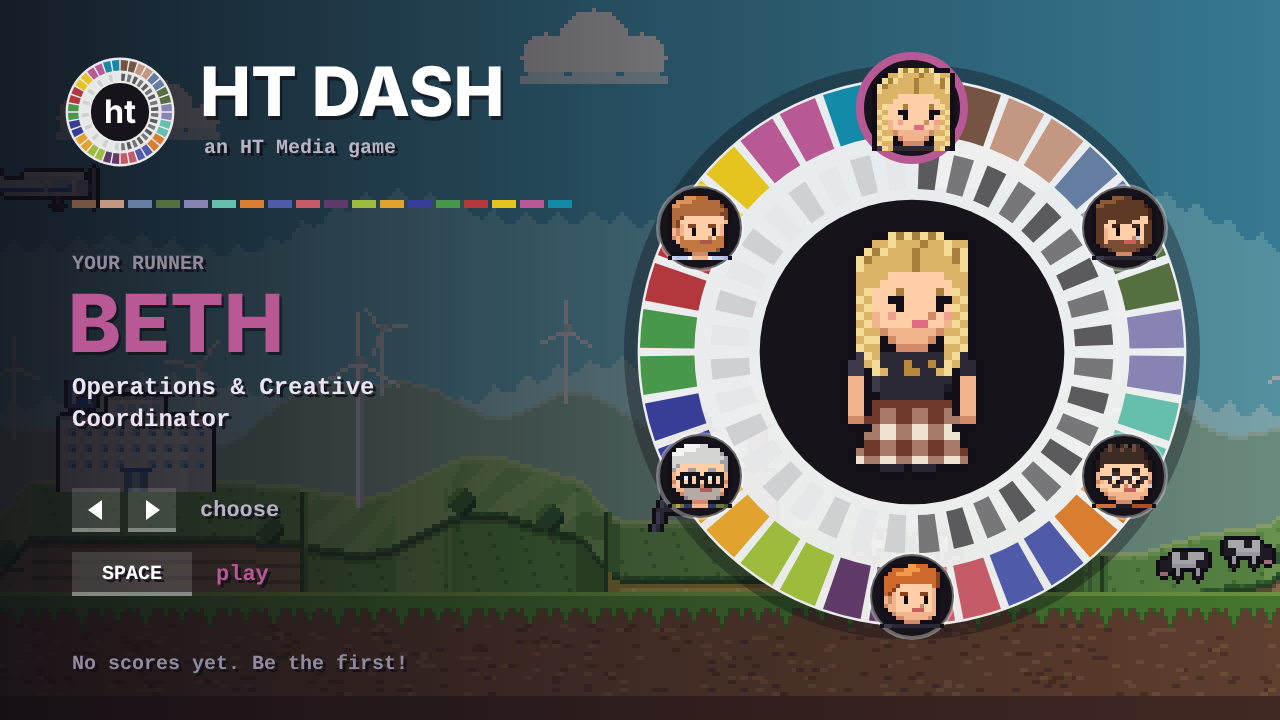
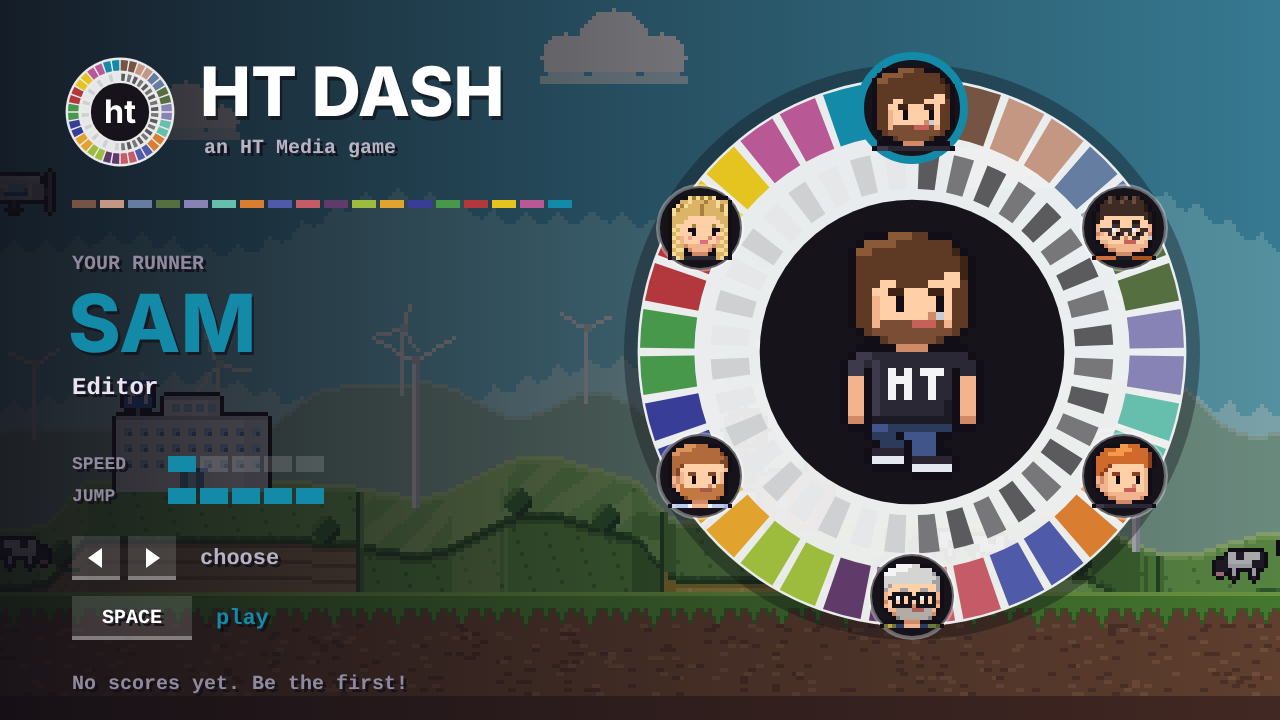
Add game stats (Speed, Jump) per runner and three lives
- Each runner has made-up Speed and Jump out of 5 (each pair adds to 6),
  shown as bars on the intro; Speed scales the world (0.88 to 1.12),
  Jump the take-off (height about 0.85 to 1.17)
- Three lives: a hit costs a heart, Dan flashes and keeps running for
  1.5 seconds; the third hit ends the run (bot runs: 46 to 60 seconds)
- README and learnings G-023, G-024; rebuilt dist file

Claude-Session: https://claude.ai/code/session_012JLRS1jhkpomJrfm7HDQX3

diff --git a/dist/HT-Dash.html b/dist/HT-Dash.html
@@ -190,14 +190,20 @@ const ASSETS = {
 // The HT team. Dan is the default runner; the arrow keys on the title screen pick someone else.
 const CHARS = [
   // each runner has their own colour from the HT logo ring
-  { id: "dan",   name: "DAN",   role: "Managing Director",                 colour: "#d97e30" },
-  { id: "dave",  name: "DAVE",  role: "Production Director",               colour: "#66bfad" },
-  { id: "mark",  name: "MARK",  role: "Creative Director",                 colour: "#9dbc3e" },
-  { id: "beth",  name: "BETH",  role: "Operations & Creative Coordinator", colour: "#b85895" },
-  { id: "sam",   name: "SAM",   role: "Editor",                            colour: "#138aa8" },
-  { id: "jonas", name: "JONAS", role: "Creative Producer",                 colour: "#e1a22e" },
+  // game stats (made up, out of 5, each pair adds to 6): speed = how fast the world moves,
+  // jump = how high they go
+  { id: "dan",   name: "DAN",   role: "Managing Director",                 colour: "#d97e30", speed: 3, jump: 3 },
+  { id: "dave",  name: "DAVE",  role: "Production Director",               colour: "#66bfad", speed: 2, jump: 4 },
+  { id: "mark",  name: "MARK",  role: "Creative Director",                 colour: "#9dbc3e", speed: 4, jump: 2 },
+  { id: "beth",  name: "BETH",  role: "Operations & Creative Coordinator", colour: "#b85895", speed: 5, jump: 1 },
+  { id: "sam",   name: "SAM",   role: "Editor",                            colour: "#138aa8", speed: 1, jump: 5 },
+  { id: "jonas", name: "JONAS", role: "Creative Producer",                 colour: "#e1a22e", speed: 3, jump: 3 },
 ];
 let sel = 0;                      // which runner is chosen
+const speedMul = () => 1 + (who().speed - 3) * 0.06;   // 0.88 to 1.12
+const jumpMul = () => 1 + (who().jump - 3) * 0.04;     // take-off speed; height changes about 0.85 to 1.17
+const LIVES = 3;                  // crashes allowed per run
+let lives = LIVES, invuln = 0;    // invuln: frames of flashing, can't-be-hit time after losing a life
 const who = () => CHARS[sel];
 const RUN_FRAMES = 6;
 for (const c of CHARS) {
@@ -339,6 +345,7 @@ function newRun() {
   runTime = 0;
   wind = [];
   bonus = 0; popups = []; portStart = null;
+  lives = LIVES; invuln = 0;
   take = nextTake();
   power = 0;
   pieFlash = 0;
@@ -347,7 +354,7 @@ function newRun() {
 
 function jump() {
   if (dan.onGround) {
-    dan.vy = power > 0 ? -7.5 : -5.3;   // pie power: twice as high
+    dan.vy = (power > 0 ? -7.5 : -5.3) * jumpMul();   // pie power: twice as high; jump stat on top
     dan.onGround = false;
   }
 }
@@ -422,7 +429,8 @@ function update() {
 
   runTime++;
   // speed: 2.6 at the start, about 7 at 50 seconds, then it keeps on climbing
-  speed = 2.6 + 4.4 * Math.pow(difficulty(), 1.3) + Math.max(0, secs() - 50) * 0.12;
+  speed = (2.6 + 4.4 * Math.pow(difficulty(), 1.3) + Math.max(0, secs() - 50) * 0.12) * speedMul();
+  if (invuln > 0) invuln--;
   distance += speed;
   score = Math.floor(distance / 10) + bonus;
   if (!portStart && secs() >= PORT_AT) startPort();
@@ -480,7 +488,7 @@ function update() {
   obstacles = obstacles.filter(o => o.x + o.w > -4);
 
   for (const o of obstacles) {
-    if (!hit(o)) continue;
+    if (o.hurt || !hit(o)) continue;
     // coming down on top of something: bounce off it and score 5 (once per obstacle)
     const feetBefore = dan.y + 29 - dan.vy;
     if (dan.vy > 0 && feetBefore <= o.y + 6) {
@@ -491,6 +499,14 @@ function update() {
         bonus += 5;
         popups.push({ x: o.x + o.w / 2, y: o.y - 4, t: 45 });
       }
+      continue;
+    }
+    if (invuln > 0) continue;                       // just lost a life: flashing, can't be hit
+    lives--;
+    o.hurt = true;                                  // run straight through the thing you hit
+    if (lives > 0) {
+      invuln = 90;                                  // 1.5 seconds to recover
+      popups.push({ x: dan.x + 16, y: dan.y - 4, t: 50, label: "-1", colour: "#ff6b6b" });
       continue;
     }
     state = "crash";
@@ -666,15 +682,25 @@ function drawRingSelect() {
   textSans(c.name, 17, 82, 20, c.colour);
   wrapLines(c.role, 24).forEach((line, i) => text(line, 18, 97 + i * 8, 6, "#e9e4f2", "left"));
 
+  // game stats as little bars in the runner's colour
+  [["SPEED", c.speed], ["JUMP", c.jump]].forEach(([label, v], row) => {
+    const y = 116 + row * 8;
+    text(label, 18, y, 4.5, "#8f8a9e", "left");
+    for (let k = 0; k < 5; k++) {
+      ctx.fillStyle = k < v ? c.colour : "rgba(255,255,255,0.15)";
+      ctx.fillRect(42 + k * 8, y - 2, 7, 4);
+    }
+  });
+
   // controls
-  keycap(18, 122, 12, "<"); keycap(32, 122, 12, ">");
-  text("choose", 50, 127.5, 5.5, "#b8b3c4", "left");
-  keycap(18, 138, 30, "SPACE");
-  text("play", 54, 143.5, 5.5, c.colour, "left");
+  keycap(18, 134, 12, "<"); keycap(32, 134, 12, ">");
+  text("choose", 50, 139.5, 5.5, "#b8b3c4", "left");
+  keycap(18, 149, 30, "SPACE");
+  text("play", 54, 154.5, 5.5, c.colour, "left");
 
   // best score, small
   const top = loadScores()[0];
-  text(top ? `BEST  ${top.name}  ${top.score}` : "No scores yet. Be the first!", 18, 166, 5, "#8f8a9e", "left");
+  text(top ? `BEST  ${top.name}  ${top.score}` : "No scores yet. Be the first!", 18, 171, 5, "#8f8a9e", "left");
 
   // the wheel
   const cx = 228, cy = 88, R = 68;
@@ -758,10 +784,18 @@ function drawWorld() {
     for (const [gx, gy] of [[-1, 0], [1, 0], [0, -1], [0, 1]]) ctx.drawImage(glow, Math.round(d.x) + gx, Math.round(d.y) + gy);
     ctx.globalAlpha = 1;
   }
-  ctx.drawImage(danImg, Math.round(d.x), Math.round(d.y));
+  if (!(state === "play" && invuln > 0 && Math.floor(t / 4) % 2)) ctx.drawImage(danImg, Math.round(d.x), Math.round(d.y));
+}
+
+// A little pixel heart for the lives counter.
+function heart(x, y, full) {
+  ctx.fillStyle = full ? "#e43b44" : "rgba(255,255,255,0.25)";
+  for (const [dx, dy, w] of [[1, 0, 2], [4, 0, 2], [0, 1, 7], [0, 2, 7], [1, 3, 5], [2, 4, 3], [3, 5, 1]]) ctx.fillRect(x + dx, y + dy, w, 1);
+  if (full) { ctx.fillStyle = "#ff9aa0"; ctx.fillRect(x + 1, y + 1, 1, 1); }
 }
 
 function drawHud() {
+  for (let i = 0; i < LIVES; i++) heart(8 + i * 10, 8, i < lives);
   if (power > 0) {
     // pie power timer, top centre: a mini HT ring whose segments switch off as it runs out
     if (power > 120 || Math.floor(t / 8) % 2) {
@@ -774,7 +808,7 @@ function drawHud() {
   if (pieFlash > 0) text("PIE POWER! SUPER JUMP!", W / 2, 50, 10, "#ffd98a");
   for (const p of popups) {                                  // "+5" floating up from a stomped obstacle
     ctx.globalAlpha = Math.min(1, p.t / 15);
-    text("+5", p.x, p.y, 9, who().colour);
+    text(p.label || "+5", p.x, p.y, 9, p.colour || who().colour);
     ctx.globalAlpha = 1;
   }
   text(`SCORE ${String(score).padStart(5, "0")}`, W - 6, 10, 8, "#fff", "right");

diff --git a/index.html b/index.html
@@ -79,14 +79,20 @@ const ASSETS = {
 // The HT team. Dan is the default runner; the arrow keys on the title screen pick someone else.
 const CHARS = [
   // each runner has their own colour from the HT logo ring
-  { id: "dan",   name: "DAN",   role: "Managing Director",                 colour: "#d97e30" },
-  { id: "dave",  name: "DAVE",  role: "Production Director",               colour: "#66bfad" },
-  { id: "mark",  name: "MARK",  role: "Creative Director",                 colour: "#9dbc3e" },
-  { id: "beth",  name: "BETH",  role: "Operations & Creative Coordinator", colour: "#b85895" },
-  { id: "sam",   name: "SAM",   role: "Editor",                            colour: "#138aa8" },
-  { id: "jonas", name: "JONAS", role: "Creative Producer",                 colour: "#e1a22e" },
+  // game stats (made up, out of 5, each pair adds to 6): speed = how fast the world moves,
+  // jump = how high they go
+  { id: "dan",   name: "DAN",   role: "Managing Director",                 colour: "#d97e30", speed: 3, jump: 3 },
+  { id: "dave",  name: "DAVE",  role: "Production Director",               colour: "#66bfad", speed: 2, jump: 4 },
+  { id: "mark",  name: "MARK",  role: "Creative Director",                 colour: "#9dbc3e", speed: 4, jump: 2 },
+  { id: "beth",  name: "BETH",  role: "Operations & Creative Coordinator", colour: "#b85895", speed: 5, jump: 1 },
+  { id: "sam",   name: "SAM",   role: "Editor",                            colour: "#138aa8", speed: 1, jump: 5 },
+  { id: "jonas", name: "JONAS", role: "Creative Producer",                 colour: "#e1a22e", speed: 3, jump: 3 },
 ];
 let sel = 0;                      // which runner is chosen
+const speedMul = () => 1 + (who().speed - 3) * 0.06;   // 0.88 to 1.12
+const jumpMul = () => 1 + (who().jump - 3) * 0.04;     // take-off speed; height changes about 0.85 to 1.17
+const LIVES = 3;                  // crashes allowed per run
+let lives = LIVES, invuln = 0;    // invuln: frames of flashing, can't-be-hit time after losing a life
 const who = () => CHARS[sel];
 const RUN_FRAMES = 6;
 for (const c of CHARS) {
@@ -228,6 +234,7 @@ function newRun() {
   runTime = 0;
   wind = [];
   bonus = 0; popups = []; portStart = null;
+  lives = LIVES; invuln = 0;
   take = nextTake();
   power = 0;
   pieFlash = 0;
@@ -236,7 +243,7 @@ function newRun() {
 
 function jump() {
   if (dan.onGround) {
-    dan.vy = power > 0 ? -7.5 : -5.3;   // pie power: twice as high
+    dan.vy = (power > 0 ? -7.5 : -5.3) * jumpMul();   // pie power: twice as high; jump stat on top
     dan.onGround = false;
   }
 }
@@ -311,7 +318,8 @@ function update() {
 
   runTime++;
   // speed: 2.6 at the start, about 7 at 50 seconds, then it keeps on climbing
-  speed = 2.6 + 4.4 * Math.pow(difficulty(), 1.3) + Math.max(0, secs() - 50) * 0.12;
+  speed = (2.6 + 4.4 * Math.pow(difficulty(), 1.3) + Math.max(0, secs() - 50) * 0.12) * speedMul();
+  if (invuln > 0) invuln--;
   distance += speed;
   score = Math.floor(distance / 10) + bonus;
   if (!portStart && secs() >= PORT_AT) startPort();
@@ -369,7 +377,7 @@ function update() {
   obstacles = obstacles.filter(o => o.x + o.w > -4);
 
   for (const o of obstacles) {
-    if (!hit(o)) continue;
+    if (o.hurt || !hit(o)) continue;
     // coming down on top of something: bounce off it and score 5 (once per obstacle)
     const feetBefore = dan.y + 29 - dan.vy;
     if (dan.vy > 0 && feetBefore <= o.y + 6) {
@@ -380,6 +388,14 @@ function update() {
         bonus += 5;
         popups.push({ x: o.x + o.w / 2, y: o.y - 4, t: 45 });
       }
+      continue;
+    }
+    if (invuln > 0) continue;                       // just lost a life: flashing, can't be hit
+    lives--;
+    o.hurt = true;                                  // run straight through the thing you hit
+    if (lives > 0) {
+      invuln = 90;                                  // 1.5 seconds to recover
+      popups.push({ x: dan.x + 16, y: dan.y - 4, t: 50, label: "-1", colour: "#ff6b6b" });
       continue;
     }
     state = "crash";
@@ -555,15 +571,25 @@ function drawRingSelect() {
   textSans(c.name, 17, 82, 20, c.colour);
   wrapLines(c.role, 24).forEach((line, i) => text(line, 18, 97 + i * 8, 6, "#e9e4f2", "left"));
 
+  // game stats as little bars in the runner's colour
+  [["SPEED", c.speed], ["JUMP", c.jump]].forEach(([label, v], row) => {
+    const y = 116 + row * 8;
+    text(label, 18, y, 4.5, "#8f8a9e", "left");
+    for (let k = 0; k < 5; k++) {
+      ctx.fillStyle = k < v ? c.colour : "rgba(255,255,255,0.15)";
+      ctx.fillRect(42 + k * 8, y - 2, 7, 4);
+    }
+  });
+
   // controls
-  keycap(18, 122, 12, "<"); keycap(32, 122, 12, ">");
-  text("choose", 50, 127.5, 5.5, "#b8b3c4", "left");
-  keycap(18, 138, 30, "SPACE");
-  text("play", 54, 143.5, 5.5, c.colour, "left");
+  keycap(18, 134, 12, "<"); keycap(32, 134, 12, ">");
+  text("choose", 50, 139.5, 5.5, "#b8b3c4", "left");
+  keycap(18, 149, 30, "SPACE");
+  text("play", 54, 154.5, 5.5, c.colour, "left");
 
   // best score, small
   const top = loadScores()[0];
-  text(top ? `BEST  ${top.name}  ${top.score}` : "No scores yet. Be the first!", 18, 166, 5, "#8f8a9e", "left");
+  text(top ? `BEST  ${top.name}  ${top.score}` : "No scores yet. Be the first!", 18, 171, 5, "#8f8a9e", "left");
 
   // the wheel
   const cx = 228, cy = 88, R = 68;
@@ -647,10 +673,18 @@ function drawWorld() {
     for (const [gx, gy] of [[-1, 0], [1, 0], [0, -1], [0, 1]]) ctx.drawImage(glow, Math.round(d.x) + gx, Math.round(d.y) + gy);
     ctx.globalAlpha = 1;
   }
-  ctx.drawImage(danImg, Math.round(d.x), Math.round(d.y));
+  if (!(state === "play" && invuln > 0 && Math.floor(t / 4) % 2)) ctx.drawImage(danImg, Math.round(d.x), Math.round(d.y));
+}
+
+// A little pixel heart for the lives counter.
+function heart(x, y, full) {
+  ctx.fillStyle = full ? "#e43b44" : "rgba(255,255,255,0.25)";
+  for (const [dx, dy, w] of [[1, 0, 2], [4, 0, 2], [0, 1, 7], [0, 2, 7], [1, 3, 5], [2, 4, 3], [3, 5, 1]]) ctx.fillRect(x + dx, y + dy, w, 1);
+  if (full) { ctx.fillStyle = "#ff9aa0"; ctx.fillRect(x + 1, y + 1, 1, 1); }
 }
 
 function drawHud() {
+  for (let i = 0; i < LIVES; i++) heart(8 + i * 10, 8, i < lives);
   if (power > 0) {
     // pie power timer, top centre: a mini HT ring whose segments switch off as it runs out
     if (power > 120 || Math.floor(t / 8) % 2) {
@@ -663,7 +697,7 @@ function drawHud() {
   if (pieFlash > 0) text("PIE POWER! SUPER JUMP!", W / 2, 50, 10, "#ffd98a");
   for (const p of popups) {                                  // "+5" floating up from a stomped obstacle
     ctx.globalAlpha = Math.min(1, p.t / 15);
-    text("+5", p.x, p.y, 9, who().colour);
+    text(p.label || "+5", p.x, p.y, 9, p.colour || who().colour);
     ctx.globalAlpha = 1;
   }
   text(`SCORE ${String(score).padStart(5, "0")}`, W - 6, 10, 8, "#fff", "right");

diff --git a/memory/learnings.md b/memory/learnings.md
@@ -37,4 +37,6 @@ Format: `- **G-###** (seen n) Rule. *(source · DD/MM/YYYY)*`
 - **G-019** (seen 1) Scene changes happen inside the scrolling world (each layer at its own speed), never as a wipe or split screen. *("come in naturally … seamless" · 23/11/2026)*
 - **G-020** (seen 1) Landing on top of an obstacle bounces and scores +5, once per obstacle. *(HT · 23/11/2026)*
 - **G-021** (seen 1) The select screen keeps the HT wheel (design C) on the right; the rest is open and uncluttered: no boxed panels, a title lockup and the chosen runner in big type on the left, keycap hints. *(HT: "keep the wheel but … looks too clunky" · 23/11/2026)*
+- **G-023** (seen 1) Three lives per run, with a short flashing recovery after each hit; runs still end within about a minute. *(HT · 23/11/2026)*
+- **G-024** (seen 1) Runners have two made-up game stats (Speed, Jump) out of 5 that add to 6, shown as bars on the intro; keep them light and never a comment on the real person. *(HT · 23/11/2026)*
 - **G-022** (seen 1) Real-world things (cranes, ships) need their proper parts drawn, not a simplified sketch that reads as broken. *("cranes … seem broken and missing parts" · 23/11/2026)*

diff --git a/README.md b/README.md
@@ -69,6 +69,21 @@ Faint wind streaks start rushing past as the speed picks up. Seagulls and drones
 
 The speed rises the whole time and the gaps between obstacles shrink.
 
+## Lives and game stats
+
+Everyone gets **3 lives** (hearts, top left). Hit something and you lose one, flash for a second and a half, and keep running. The third hit ends the run. Change `LIVES` in `index.html` for more or fewer.
+
+Each runner has two made-up game stats out of 5, shown as bars on the intro screen. **Speed** makes the world move faster (more points, less time to react) and **Jump** makes them jump higher (clears tall things, but you can land on the next obstacle). Each pair adds up to 6, so nobody is simply better:
+
+| Runner | Speed | Jump |
+|---|---|---|
+| Dan | 3 | 3 |
+| Dave | 2 | 4 |
+| Mark | 4 | 2 |
+| Beth | 5 | 1 |
+| Sam | 1 | 5 |
+| Jonas | 3 | 3 |
+
 ## Stepping on obstacles
 
 Land on top of anything (camera kit, animals, containers, even a seagull) and you bounce off it and score **+5**, once per obstacle. Hitting the side still ends the run.
